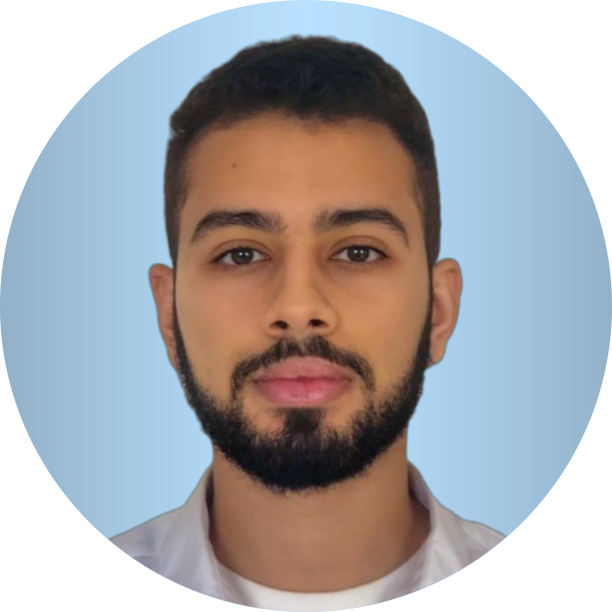
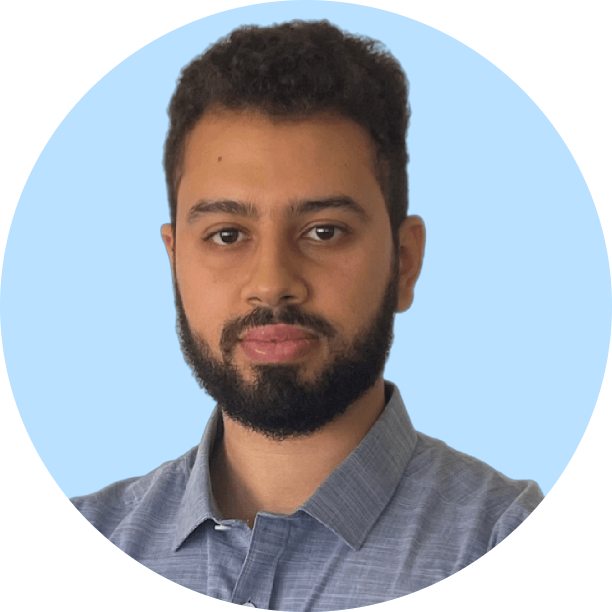
adds academic background page and images

diff --git a/styles/main.css b/styles/main.css
@@ -22,6 +22,6 @@ hr {
     margin-bottom: 5%;
 }
 
-#MainMenu {visibility: visible;}
+#MainMenu {visibility: hidden;}
 footer {visibility: hidden;}
-header {visibility: visible;}
+header {visibility: hidden;}

diff --git a/pages/2_🏫_Academic_Background.py b/pages/2_🏫_Academic_Background.py
@@ -1,0 +1,144 @@
+from pathlib import Path
+
+import streamlit as st
+from streamlit_extras.switch_page_button import switch_page
+from PIL import Image
+
+# ------------ CONSTANTS ----------
+PAGE_TITLE = "Academia | Et-tali Mouad"
+PAGE_ICON = "🏛"
+NAME = "Et-tali Mouad"
+DESCRIPTION = """
+My Academic Journey was always influenced by my love for maths and coding Starting from my Mathematical sciences Baccalaureate down to my latest experience 
+"""
+
+# ---------- PARIS_CITE------------------
+PARIS_CITE_ICON = "📜"
+PARIS_CITE_TITLE = "**Master 2 Machine learning for Data Science | Université Paris-Descartes**"
+PARIS_CITE_PERIOD = "09/2021 - 09/2022"
+PARIS_CITE_DESCRIPTION = """
+- ► Collaborated on the creation of a <span style="color:#f50057; font-size: 15;">Digital costing</span>  solution that predicts cost of clothing items using Image and description, based on Convolutional Neural Networks and Transformers.
+- ► Development of a <span style="color:#f50057; font-size: 15;">360° Procurement</span> solution using Python, AWS MySQL and Google Data Studio with interactive dashboards including Forecasts, Spend Analysis, Supplier audit, CO2 emissions and more.
+- ► Participation in the creation of a <span style="color:#f50057; font-size: 15;">Succession Planning</span> solution that uses Machine Learning for optimal successor choice, using d3js for visualizations.
+""" 
+# --------------------------------------
+
+# ---------- ESI ------------------
+ESI_ICON = "🧑🏻💻"
+ESI_TITLE = "**Engineering Diploma in Data science and knowledge management | Université des Sciences de L'information**"
+ESI_PERIOD = "09/2017 - 09/2020"
+ESI_DESCRIPTION = """
+- ► Collaborated on the creation of a <span style="color:#f50057; font-size: 15;">Digital costing</span>  solution that predicts cost of clothing items using Image and description, based on Convolutional Neural Networks and Transformers.
+- ► Development of a <span style="color:#f50057; font-size: 15;">360° Procurement</span> solution using Python, AWS MySQL and Google Data Studio with interactive dashboards including Forecasts, Spend Analysis, Supplier audit, CO2 emissions and more.
+- ► Participation in the creation of a <span style="color:#f50057; font-size: 15;">Succession Planning</span> solution that uses Machine Learning for optimal successor choice, using d3js for visualizations.
+""" 
+# --------------------------------------
+
+# ---------- PREP ------------------
+PREP_ICON = "🚀"
+PREP_TITLE = "**Preparatory classes for grand university (Maths/Physics) | Prep School AL-KHANSAA**"
+PREP_PERIOD = "09/2015 - 09/2017"
+PREP_DESCRIPTION = """
+- ► Collaborated on the creation of a <span style="color:#f50057; font-size: 15;">Digital costing</span>  solution that predicts cost of clothing items using Image and description, based on Convolutional Neural Networks and Transformers.
+- ► Development of a <span style="color:#f50057; font-size: 15;">360° Procurement</span> solution using Python, AWS MySQL and Google Data Studio with interactive dashboards including Forecasts, Spend Analysis, Supplier audit, CO2 emissions and more.
+- ► Participation in the creation of a <span style="color:#f50057; font-size: 15;">Succession Planning</span> solution that uses Machine Learning for optimal successor choice, using d3js for visualizations.
+""" 
+# --------------------------------------
+
+# ---------- BAC ------------------
+BAC_ICON = "🎒"
+BAC_TITLE = "**Scientific Baccalaureate Mathematical Sciences | Groupe Scholaire Ouhoud**"
+BAC_PERIOD = "06/2015"
+BAC_DESCRIPTION = """
+- ► Collaborated on the creation of a <span style="color:#f50057; font-size: 15;">Digital costing</span>  solution that predicts cost of clothing items using Image and description, based on Convolutional Neural Networks and Transformers.
+- ► Development of a <span style="color:#f50057; font-size: 15;">360° Procurement</span> solution using Python, AWS MySQL and Google Data Studio with interactive dashboards including Forecasts, Spend Analysis, Supplier audit, CO2 emissions and more.
+- ► Participation in the creation of a <span style="color:#f50057; font-size: 15;">Succession Planning</span> solution that uses Machine Learning for optimal successor choice, using d3js for visualizations.
+""" 
+# --------------------------------------
+
+st.set_page_config(page_title=PAGE_TITLE, page_icon=PAGE_ICON,layout="centered")
+
+
+# ------------ PATH SETTINGS ----------
+current_dir = Path(__file__).parent.parent
+css_file = current_dir / "styles" / "main.css"
+
+esi_pic = Image.open(current_dir / "assets" / "esi.jpg")
+
+paris_pic = Image.open(current_dir / "assets" / "paris.jpg")
+
+bac_pic = Image.open(current_dir / "assets" / "bac.jpg")
+
+
+st.title("Academic Background")
+
+# --------------- HELPER FUNCTIONS -----------------------
+def V_SPACE(lines):
+    for _ in range(lines):
+        st.write('&nbsp;')
+
+def go_to_full_page(label,page):
+    personal_project = st.button(label)
+    if personal_project:
+        switch_page(page)
+
+def create_background_section(ICON, BACKGROUND_TITLE,BACKGROUND_PERIOD,BACKGROUND_DESCRIPTION):
+    st.write('\n')
+    st.write(ICON, BACKGROUND_TITLE)
+    st.write(BACKGROUND_PERIOD)
+    st.write(BACKGROUND_DESCRIPTION, unsafe_allow_html=True)
+    
+# ----------- CSS, PDF & Profile Pic SETTINGS --------------
+
+with open(css_file) as f:
+    st.markdown("<style>{}</style>".format(f.read()), unsafe_allow_html=True)
+
+
+# ------ HERO SECTION -----------
+cols = st.columns(2, gap='small')
+
+with cols[0]:
+    st.image("https://u-paris.fr/wp-content/uploads/2022/03/SiegeUP_1920-1.jpg")
+
+
+with cols[1]:
+    st.title(NAME)
+    st.write(DESCRIPTION)
+
+
+# --------- BACKGROUND ---------
+V_SPACE(1)
+st.subheader("My Journey 🚩")
+st.write('---')
+
+# st.write('\n')
+# st.write("📜", "**Master 2 Machine learning for Data Science | Université Paris-Descartes**")
+# st.write("09/2021 - 09/2022")
+# st.write(
+#     """
+# - ► Collaborated on the creation of a <span style="color:#f50057; font-size: 15;">Digital costing</span>  solution that predicts cost of clothing items using Image and description, based on Convolutional Neural Networks and Transformers.
+# - ► Development of a <span style="color:#f50057; font-size: 15;">360° Procurement</span> solution using Python, AWS MySQL and Google Data Studio with interactive dashboards including Forecasts, Spend Analysis, Supplier audit, CO2 emissions and more.
+# - ► Participation in the creation of a <span style="color:#f50057; font-size: 15;">Succession Planning</span> solution that uses Machine Learning for optimal successor choice, using d3js for visualizations.
+# - ► Commercial work : Participation in the <span style="color:#f50057; font-size: 15;">the developement of multiple proofs of concept</span> to demonstrate to prospects and clients for biz dev purposes
+# - ► Internal work : Along 2 other data scientist and an Agile coach, we handle the management of different courses and certifications for the rest of the company.
+# - ► Internal work : organization monthly presentations about the state of the art in the fields of data, AI and ML. As well as introduce new tools to our collaborators
+# """ , unsafe_allow_html=True
+# )
+
+create_background_section(PARIS_CITE_ICON,PARIS_CITE_TITLE,PARIS_CITE_PERIOD,PARIS_CITE_DESCRIPTION)
+st.image(paris_pic, caption="Getting ready for Internships and Job Hunting")
+st.write('----')
+
+create_background_section(ESI_ICON,ESI_TITLE,ESI_PERIOD,ESI_DESCRIPTION)
+st.image(esi_pic, caption="Building connections in Engineering University (I had already finished my turn)")
+st.write('----')
+
+create_background_section(PREP_ICON,PREP_TITLE,PREP_PERIOD,PREP_DESCRIPTION)
+st.write("""***PS: no picture for prep school period on purpose (if you know you know)*** 🙃""",unsafe_allow_html=True)
+st.write('----')
+
+create_background_section(BAC_ICON,BAC_TITLE,BAC_PERIOD,BAC_DESCRIPTION)
+cols = st.columns(3,gap="small")
+with cols[1]:
+    st.image(bac_pic,caption="Blurry graduation because 2015 Android",width=280)
+st.write('----')

diff --git a/1_🏡_home.py b/1_🏡_home.py
@@ -38,7 +38,17 @@ PROJECTS = {
 st.set_page_config(page_title=PAGE_TITLE, page_icon=PAGE_ICON)
 
 
-st.title("Hello There !Compelete Home page")
+st.title("Hello There")
+
+# --------------- HELPER FUNCTIONS -----------------------
+def V_SPACE(lines):
+    for _ in range(lines):
+        st.write('&nbsp;')
+
+def go_to_full_page(label,page):
+    personal_project = st.button(label)
+    if personal_project:
+        switch_page(page)
 
 
 # ----------- CSS, PDF & Profile Pic SETTINGS --------------
@@ -74,7 +84,7 @@ with cols[1]:
 
 # -------- SOCIALS ---------
 
-st.write("#")
+V_SPACE(1)
 
 cols = st.columns(len(SOCIAL_MEDIA))
 for index, (platform,link) in enumerate(SOCIAL_MEDIA.items()):
@@ -83,11 +93,11 @@ for index, (platform,link) in enumerate(SOCIAL_MEDIA.items()):
 
 # ------- EXPERIENCE AND QUALIFS --------
 
-st.write("#")
+V_SPACE(1)
 st.subheader('About me 🛝')
 st.write(
     """
-    - ✔ **4 years of experience** in data science consulting firms for clients like <span style="color:#f50057; font-size: 15;">Total Energies , ONCF , Nexans </span> (Details in Background page)
+    - ✔ **3 years of experience** in data science consulting firms for clients like <span style="color:#f50057; font-size: 15;">Total Energies , ONCF , Nexans </span> (Details in Professional Experiences)
     - ✔ Built multiple ML based web applications (D3js, Streamlit) with deployment in AWS, Heroku 
     - ✔ Expertise in statistical principles and classical ML models
     - ✔ Product and value oriented mindset ( my dream is to build valuable ML tools, my nightmare is models dying in notebooks )  
@@ -104,14 +114,15 @@ st.write(
 - 👩💻 Programming: Python, SQL, pySpark
 - 🧪 Data science : Machine Learning, Ensemble methods (Bagging, Boosting) / kernel methods (SVM, SPCA), Deep Learning, Natural Language Processing, Optimisation
 - 📊 Data Visulization: PowerBi, Qlicksense, D3js
-- 📚 Modeling: Logistic regression, linear regression, decition trees
-- 🗄 Databases: Postgres, MongoDB, MySQL
+- 📚 Transfer Learning: LLMS, CNNs, Transformers ...
+- 🗄 Databases: Postgres, MongoDB, MySQL (on Premise and Cloud)
 - ☁ Cloud : AWS (Certified Cloud Practitioner (CLF)), Palantir Foundry
 """
 )
+go_to_full_page("See my certifications and trainings" , "Certifications")
 
 # --------- work history ---------
-st.write("#")
+V_SPACE(1)
 st.subheader("Recent Job Experience 🧑💻")
 st.write('---')
 
@@ -129,6 +140,7 @@ st.write(
 """ , unsafe_allow_html=True
 )
 
+go_to_full_page("Check out all my experiences" , "Professional Experiences")
 
 
 # --- Projects & Accomplishments ---
@@ -140,6 +152,6 @@ for project, link in PROJECTS.items():
 
 st.write("""🏆 More in Personal Projects page """)
 
-personal_project = st.button("Go to Personal Projects")
-if personal_project:
-    switch_page("Personal Projects")
+
+
+go_to_full_page("Go to Personal Projects" , "Personal Projects")
